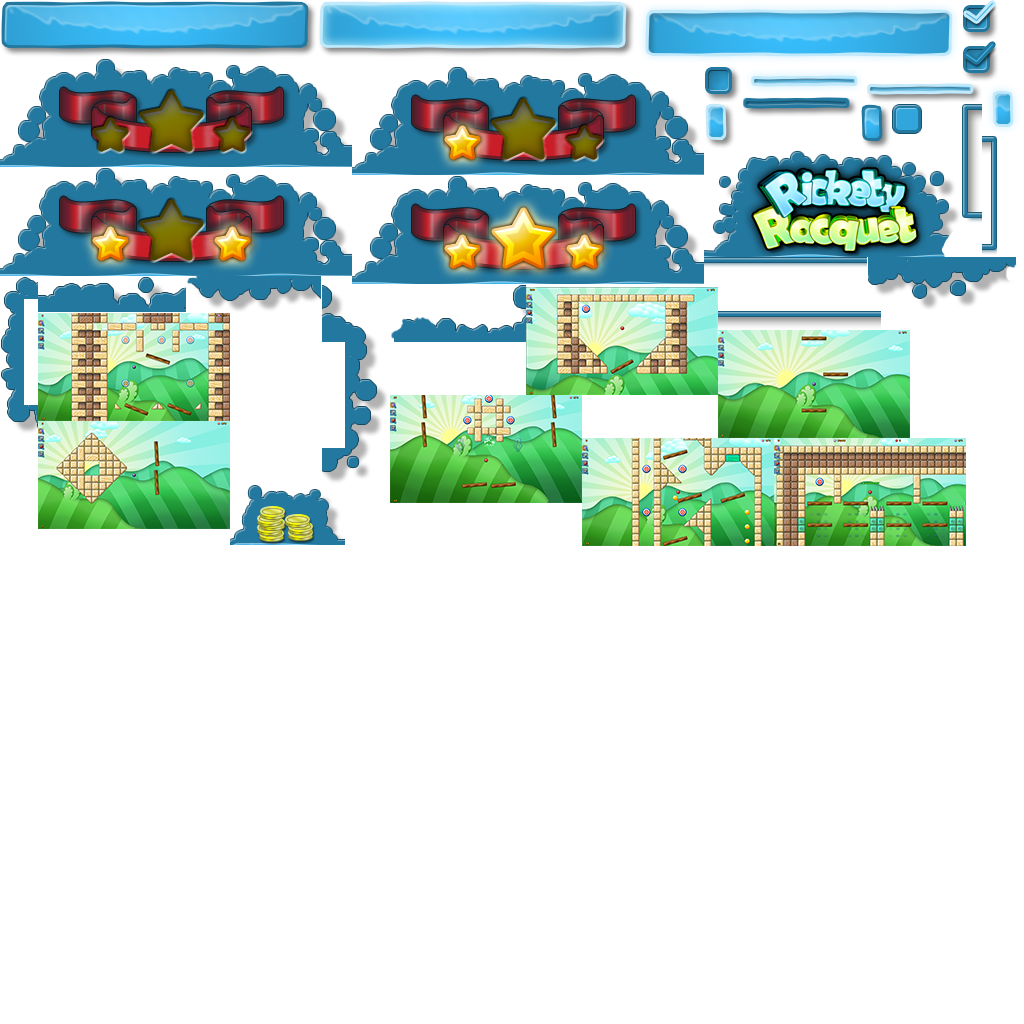
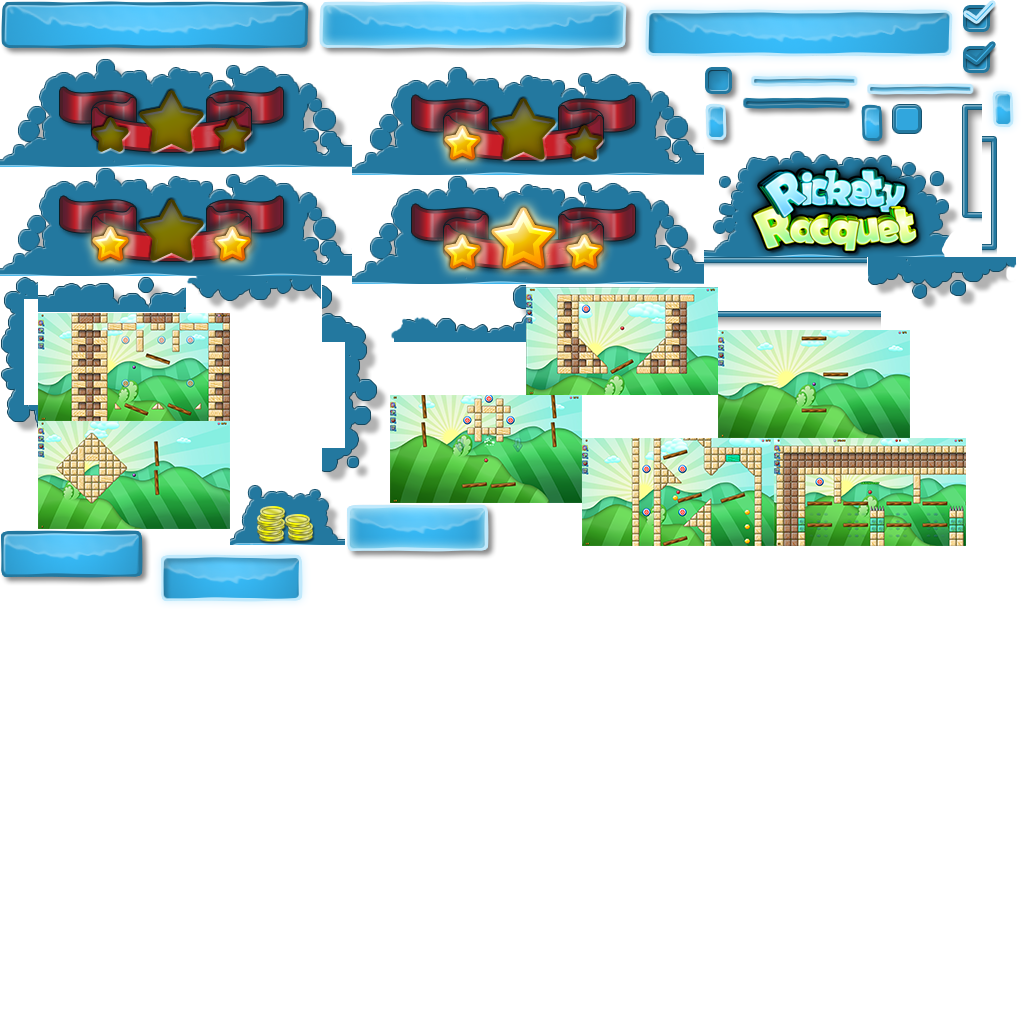
[189] Advancing to the next level via button

Changed region(s): [[0.0, 0.5, 0.3125, 0.5938], [0.3125, 0.4688, 0.5, 0.5625]]

diff --git a/Source/FirstParty/AllInOneSolution/AllInOneSolution/Core/State/LevelPassState.cpp b/Source/FirstParty/AllInOneSolution/AllInOneSolution/Core/State/LevelPassState.cpp
@@ -59,6 +59,8 @@ StateChangeInformation LevelPassState::update(const float time)
 
     m_HUD.update(m_level, getCurrentTime());
 
+    m_menu.getButton(ReplayMenu::BUTTON_PLAY_NEXT).setVisible(m_playStateInfo.m_levelNumber < 7);
+
     int clicked = -1;
     m_menu.registerOnClick([&](const Button& sender){ clicked = sender.getId(); });
     m_menu.update(m_screen);
@@ -69,6 +71,15 @@ StateChangeInformation LevelPassState::update(const float time)
         m_playStateInfo.m_level = m_level;
         m_transitionStateInfo.m_followingState = LoadLevelStateId;
         m_transitionStateInfo.m_onEnterInformation = &m_playStateInfo;
+        return StateChangeInformation(TransitionStateId, &m_transitionStateInfo);
+    }
+    else if(clicked == ReplayMenu::BUTTON_PLAY_NEXT)
+    {
+        m_stateInfo.m_level = nullptr;
+        m_stateInfo.m_prepareOnly = false;
+        m_stateInfo.m_levelNumber = m_playStateInfo.m_levelNumber + 1;
+        m_transitionStateInfo.m_followingState = LoadLevelStateId;
+        m_transitionStateInfo.m_onEnterInformation = &m_stateInfo;
         return StateChangeInformation(TransitionStateId, &m_transitionStateInfo);
     }
     else if(clicked == ReplayMenu::BUTTON_MAIN_MENU)

diff --git a/Source/FirstParty/AllInOneSolution/AllInOneSolution/Core/gui/ReplayMenu.hpp b/Source/FirstParty/AllInOneSolution/AllInOneSolution/Core/gui/ReplayMenu.hpp
@@ -10,13 +10,14 @@ class ReplayMenu : public CaptionMenu
 public:
 
     static const int BUTTON_PLAY_AGAIN = 0;
-    static const int LABEL_POINTS = 1;
-    static const int SPRITE_SYMBOL_NONE = 3;
-    static const int SPRITE_SYMBOL_BRONCE = 4;
-    static const int SPRITE_SYMBOL_SILVER = 5;
-    static const int SPRITE_SYMBOL_GOLD = 6;
-    static const int LABEL_LOSTBALLS = 7;
-    static const int BUTTON_MAIN_MENU = 9;
+    static const int BUTTON_PLAY_NEXT = 1;
+    static const int BUTTON_MAIN_MENU = 2;
+    static const int SPRITE_SYMBOL_NONE = 14;
+    static const int SPRITE_SYMBOL_BRONCE = 15;
+    static const int SPRITE_SYMBOL_SILVER = 16;
+    static const int SPRITE_SYMBOL_GOLD = 17;
+    static const int LABEL_POINTS = 10;
+    static const int LABEL_LOSTBALLS = 12;
 
     ReplayMenu(const sf::Vector2f& position,
                sf::RenderWindow& screen,

diff --git a/Source/FirstParty/AllInOneSolution/AllInOneSolution/Core/State/LevelFailState.cpp b/Source/FirstParty/AllInOneSolution/AllInOneSolution/Core/State/LevelFailState.cpp
@@ -37,6 +37,8 @@ void LevelFailState::onEnter(const EnterStateInformation* enterInformation, cons
     m_HUD.restartAt(getCurrentTime());
 
     m_menu.setPosition(sf::Vector2f(m_screen.getSize().x / 2.f - m_menu.getSize().x / 2.f, m_screen.getSize().y / 2.f - m_menu.getSize().y / 2.f));
+    
+    m_playStateInfo.m_levelNumber = enterInformation->m_levelNumber;
 }
 
 StateChangeInformation LevelFailState::update(const float time)

diff --git a/Source/FirstParty/AllInOneSolution/AllInOneSolution/Core/State/LevelPassState.hpp b/Source/FirstParty/AllInOneSolution/AllInOneSolution/Core/State/LevelPassState.hpp
@@ -37,6 +37,7 @@ private:
     ReplayMenu m_menu;
     bool m_replay;
 
+    EnterStateInformation m_stateInfo;
     EnterPlayStateInformation m_playStateInfo;
     EnterTransitionStateInformation m_transitionStateInfo;
     float m_timeDiff;
